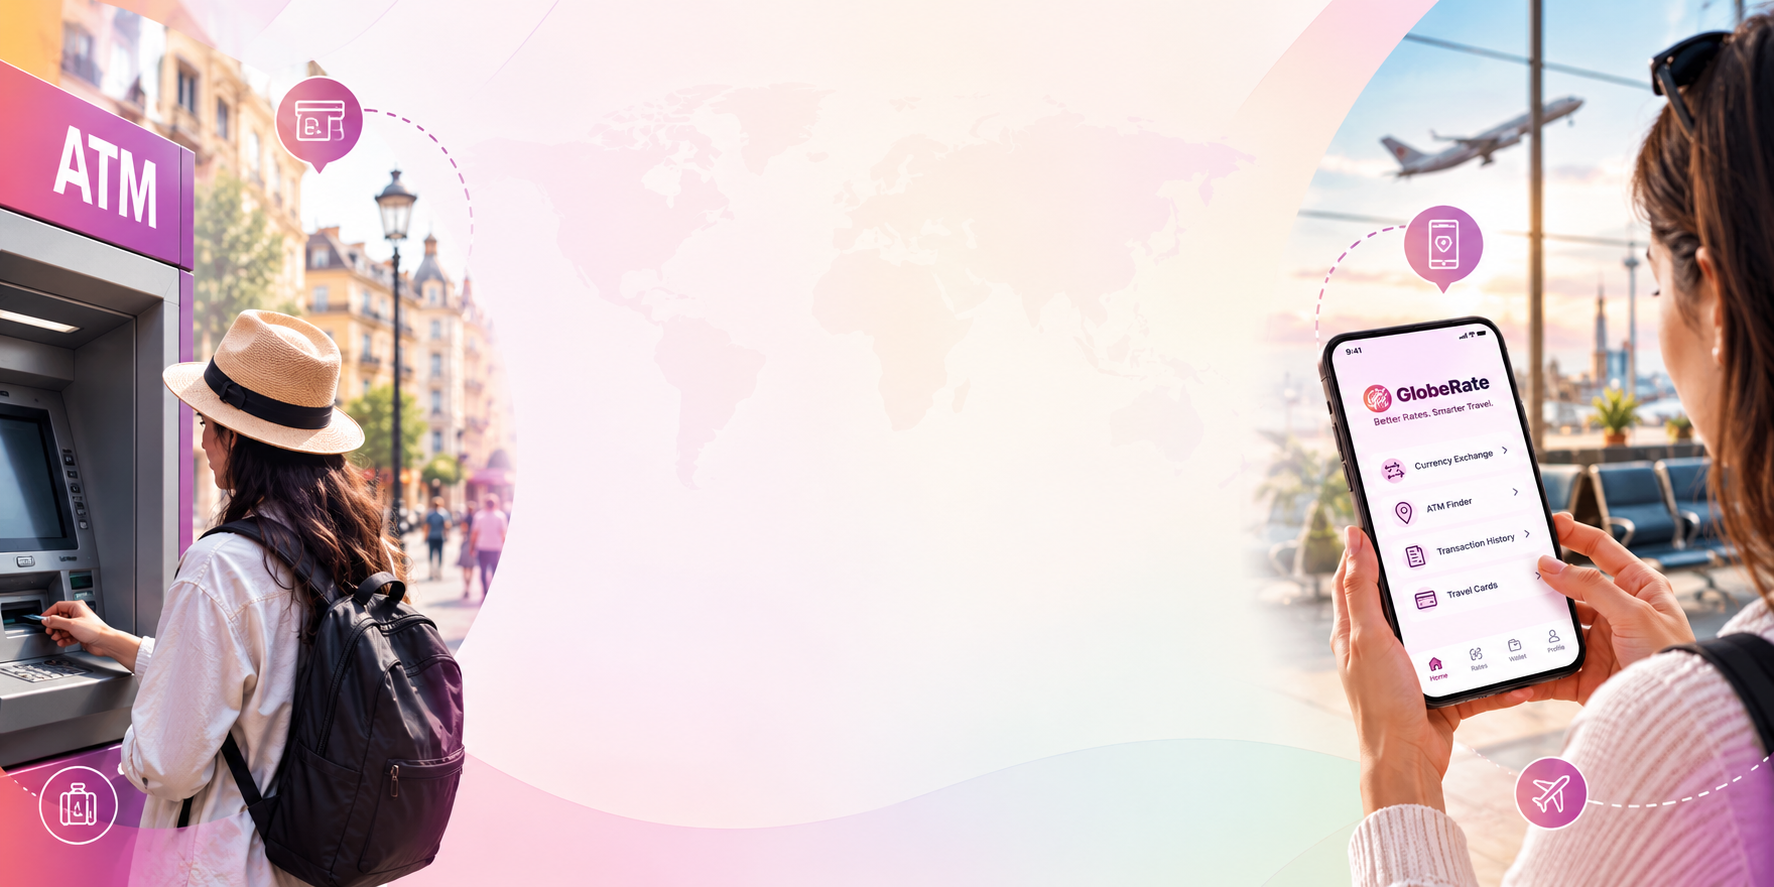
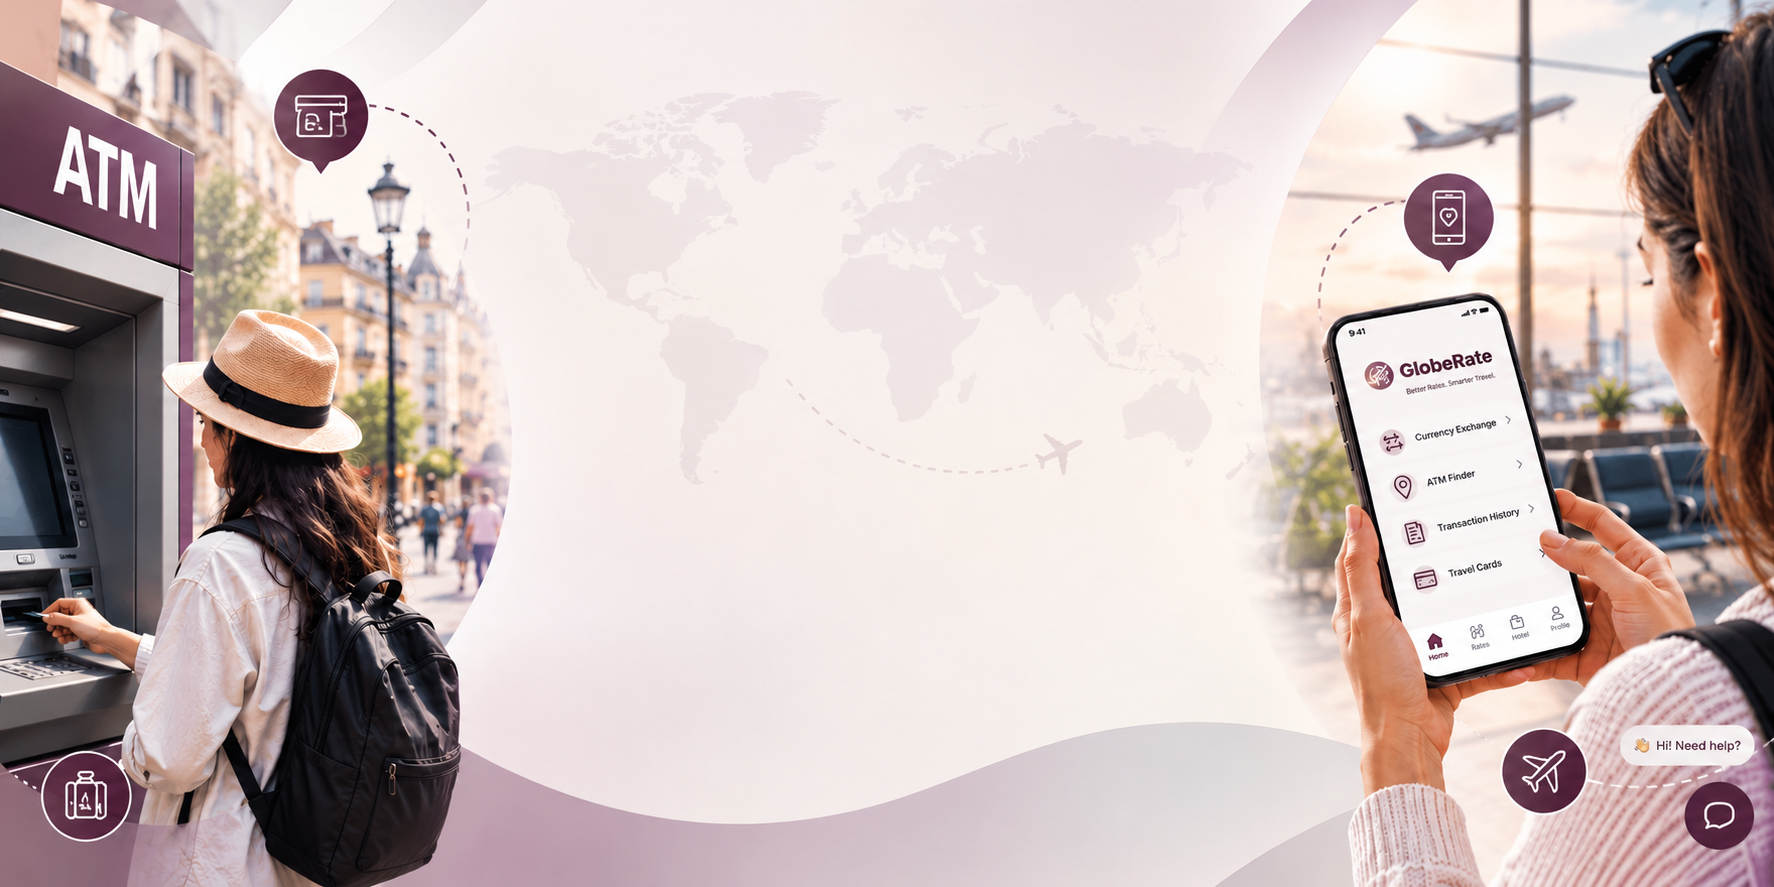
Insert custom Aubergine login image, eliminate lingering pink/yellow/purple spots on homepage

Changed region(s): [[0.0, 0.0, 1.0, 1.0], [0.5891, 0.487, 0.6201, 0.5175]]

diff --git a/src/app/page.tsx b/src/app/page.tsx
@@ -148,7 +148,7 @@ export default function Home() {
 
           <div className="bg-white rounded-3xl p-6 border border-[#DDD7D0]/80 shadow-xl">
             <div className="flex items-center gap-4 mb-4">
-              <div className="w-14 h-14 rounded-2xl bg-gradient-to-br from-[#FF007A] to-rose-600 flex items-center justify-center text-white shadow-md">
+              <div className="w-14 h-14 rounded-2xl bg-[#49263F] flex items-center justify-center text-white shadow-md">
                 <ShieldAlert size={28} />
               </div>
               <div>
@@ -225,7 +225,7 @@ export default function Home() {
           
           <div className="bg-white rounded-3xl p-6 shadow-xl border border-[#DDD7D0]/80">
             <div className="flex items-center gap-4 mb-2">
-              <LineChart size={24} className="text-cyan-500" />
+              <LineChart size={24} className="text-[#49263F]" />
               <span className="font-bold text-[#5C555C]">Total Budget Remaining</span>
             </div>
             <div className="text-4xl font-black text-[#29252B]">₹1,45,000</div>
@@ -306,7 +306,7 @@ export default function Home() {
                 When the foreign machine asks &quot;Charge in Home Currency or Local Cash?&quot;, always pick Local Cash to avoid the 12% DCC bank trap!
               </p>
             </div>
-            <Link href="/dashboard/budget" className="inline-flex items-center gap-2 text-sm font-black text-cyan-600 hover:underline">
+            <Link href="/dashboard/budget" className="inline-flex items-center gap-2 text-sm font-black text-[#49263F] hover:underline">
               Monitor Budget River <ArrowRight size={16} />
             </Link>
           </div>
@@ -323,7 +323,7 @@ export default function Home() {
 
         <div className="grid grid-cols-1 md:grid-cols-3 gap-8">
           <Link href="/dashboard/map" className="bg-white rounded-[2.5rem] p-8 border border-[#DDD7D0]/80 shadow-lg hover:shadow-2xl hover:-translate-y-2 transition-all group block">
-            <div className="w-16 h-16 rounded-2xl bg-gradient-to-br from-[#FF007A] to-rose-600 flex items-center justify-center text-white mb-6 shadow-md group-hover:scale-110 transition-transform">
+            <div className="w-16 h-16 rounded-2xl bg-[#49263F] flex items-center justify-center text-white mb-6 shadow-md group-hover:scale-110 transition-transform">
               <ShieldAlert size={28} />
             </div>
             <h3 className="text-2xl font-black text-[#29252B] mb-2 group-hover:text-[#49263F] transition-colors">Scam Detector</h3>
@@ -348,9 +348,9 @@ export default function Home() {
             <div className="w-16 h-16 rounded-2xl bg-gradient-to-br from-[#B8ADB5] to-[#8A7B85] flex items-center justify-center text-white mb-6 shadow-md group-hover:scale-110 transition-transform">
               <Droplets size={28} />
             </div>
-            <h3 className="text-2xl font-black text-[#29252B] mb-2 group-hover:text-cyan-600 transition-colors">Budget River</h3>
+            <h3 className="text-2xl font-black text-[#29252B] mb-2 group-hover:text-[#49263F] transition-colors">Budget River</h3>
             <p className="text-[#5C555C] font-medium leading-relaxed mb-6">Visual, flowing budget tracking.</p>
-            <div className="flex items-center gap-2 text-sm font-bold text-cyan-600 group-hover:translate-x-1 transition-transform">
+            <div className="flex items-center gap-2 text-sm font-bold text-[#49263F] group-hover:translate-x-1 transition-transform">
               Explore Tool <ArrowRight size={16} />
             </div>
           </Link>
@@ -397,23 +397,23 @@ export default function Home() {
           {/* Right Cards */}
           <div className="flex-1 flex flex-col gap-6">
             
-            <div className="flex-1 bg-[#FFF9EE] text-[#29252B] p-8 md:p-10 rounded-[2.5rem] border border-amber-100 shadow-xl flex flex-col justify-between relative overflow-hidden">
+            <div className="flex-1 bg-white text-[#29252B] p-8 md:p-10 rounded-[2.5rem] border border-[#DDD7D0] shadow-xl flex flex-col justify-between relative overflow-hidden">
               <p className="text-lg md:text-xl font-bold text-slate-800 leading-relaxed mb-6">
                 &quot;The Budget River feature is insane. It&apos;s the first time I actually understand how much I&apos;m spending across 3 different European currencies.&quot;
               </p>
               <div>
                 <div className="font-black text-[#29252B] text-lg">Rahul Verma</div>
-                <div className="text-sm font-bold text-amber-700">Digital Nomad</div>
+                <div className="text-sm font-bold text-[#49263F]">Digital Nomad</div>
               </div>
             </div>
 
-            <div className="flex-1 bg-[#F3E8FF] text-[#29252B] p-8 md:p-10 rounded-[2.5rem] border border-purple-100 shadow-xl flex flex-col justify-between relative overflow-hidden">
+            <div className="flex-1 bg-white text-[#29252B] p-8 md:p-10 rounded-[2.5rem] border border-[#DDD7D0] shadow-xl flex flex-col justify-between relative overflow-hidden">
               <p className="text-lg md:text-xl font-bold text-slate-800 leading-relaxed mb-6">
                 &quot;I love the Price Anchor! Seeing that a ¥1,200 meal in Tokyo is just &apos;1 Domino&apos;s Pizza&apos; immediately stopped me from overspending.&quot;
               </p>
               <div>
                 <div className="font-black text-[#29252B] text-lg">Priya Patel</div>
-                <div className="text-sm font-bold text-purple-700">Exchange Student</div>
+                <div className="text-sm font-bold text-[#49263F]">Exchange Student</div>
               </div>
             </div>
 

diff --git a/src/app/auth/signup/page.tsx b/src/app/auth/signup/page.tsx
@@ -8,7 +8,7 @@ export default function SignupPage() {
     <div className="relative min-h-screen w-full flex items-center justify-center overflow-hidden font-sans">
       
       {/* Background Container: Ambient Glow + Full Uncropped Artwork */}
-      <div className="absolute inset-0 z-0 bg-[#FDF2F8] overflow-hidden">
+      <div className="absolute inset-0 z-0 bg-[#FAF8F6] overflow-hidden">
         {/* Layer 1: Ambient Blurred Backdrop to smoothly fill fullscreen height */}
         <div className="absolute inset-0 z-0 pointer-events-none">
           <Image 

diff --git a/src/app/auth/login/page.tsx b/src/app/auth/login/page.tsx
@@ -8,7 +8,7 @@ export default function LoginPage() {
     <div className="relative min-h-screen w-full flex items-center justify-center overflow-hidden font-sans">
       
       {/* Background Container: Ambient Glow + Full Uncropped Artwork */}
-      <div className="absolute inset-0 z-0 bg-[#FDF2F8] overflow-hidden">
+      <div className="absolute inset-0 z-0 bg-[#FAF8F6] overflow-hidden">
         {/* Layer 1: Ambient Blurred Backdrop to smoothly fill fullscreen height */}
         <div className="absolute inset-0 z-0 pointer-events-none">
           <Image 
